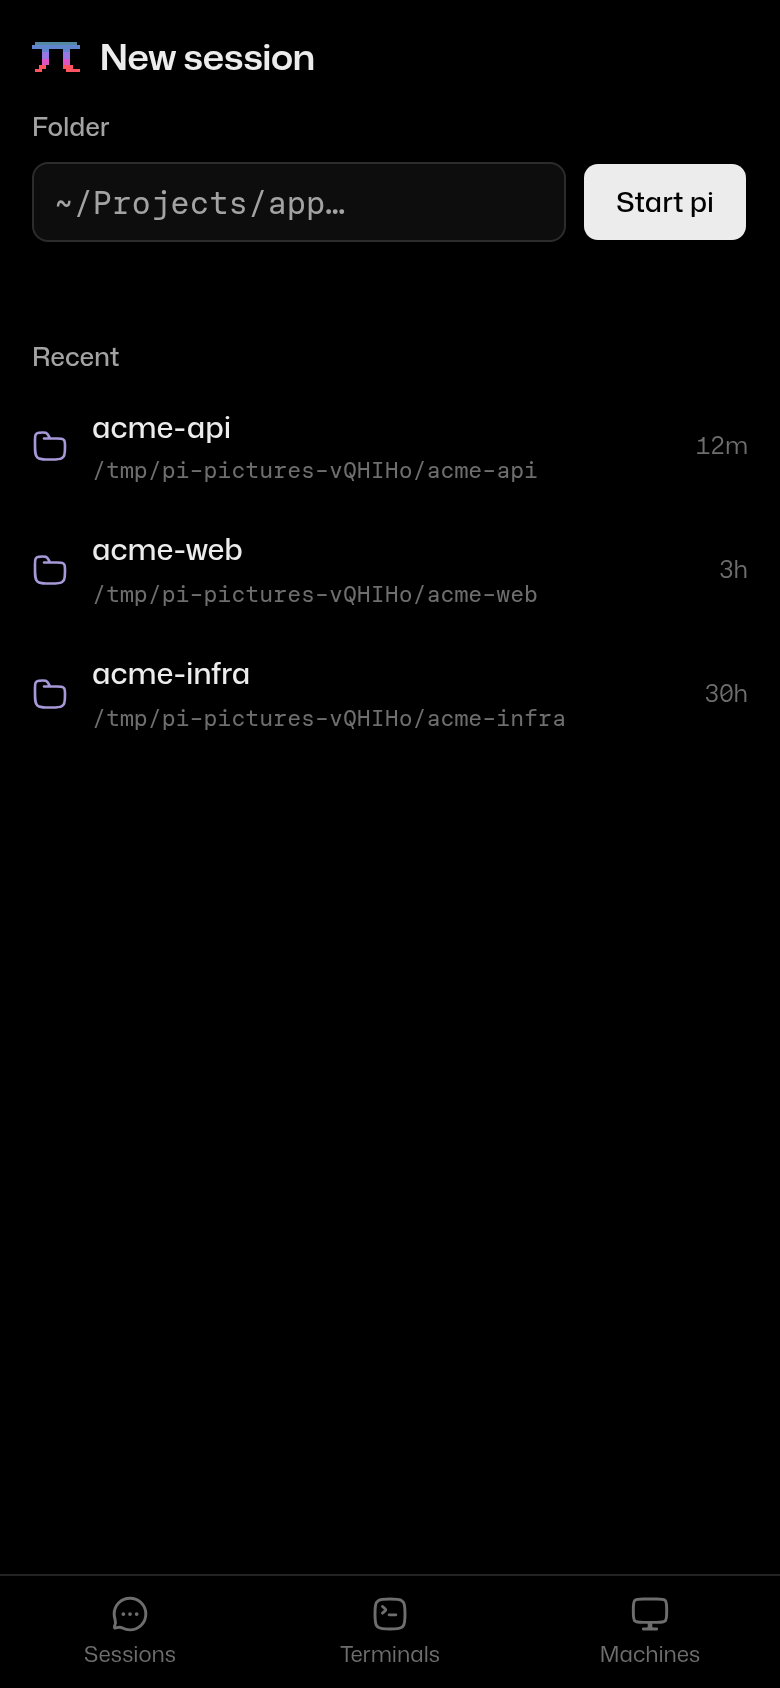
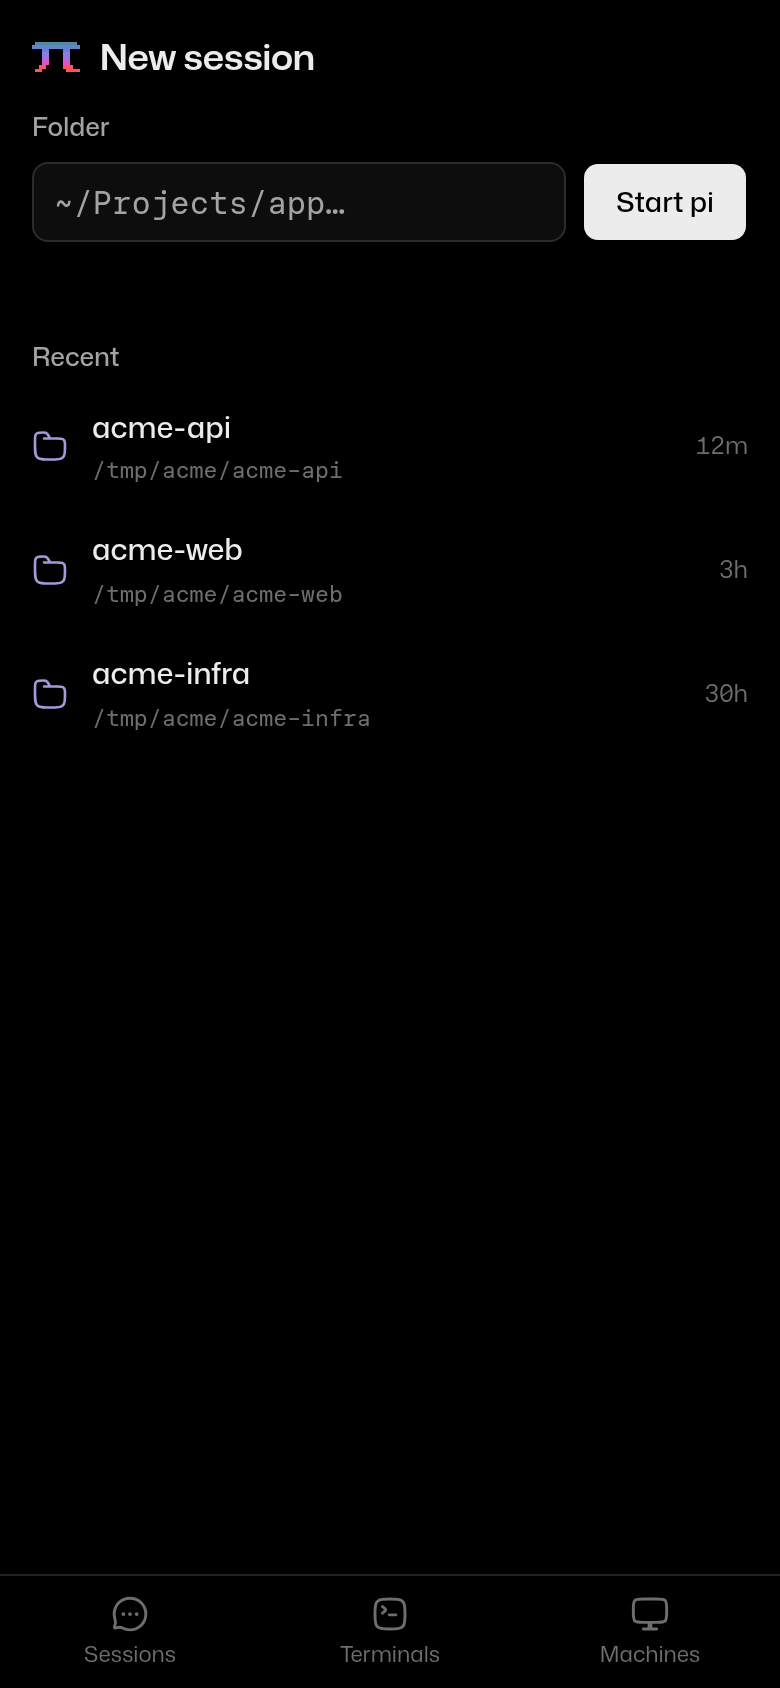
docs(remote): fixed paths in the pictures, and room around the key bar

diff --git a/packages/remote/scripts/pictures.ts b/packages/remote/scripts/pictures.ts
@@ -57,8 +57,10 @@ const ASK_PUSH = "Push it";
  * whose last commit predates the --dry-run change, so the Files screen has a diff to show.
  */
 function project(): string {
-	// A fixed name, since the page shows the folder.
-	const cwd = join(mkdtempSync(join(tmpdir(), "pi-pictures-")), "acme-api");
+	// A fixed place, since the page shows the whole path: a random one would change every picture.
+	const workspace = join(tmpdir(), "acme");
+	rmSync(workspace, { recursive: true, force: true });
+	const cwd = join(workspace, "acme-api");
 	mkdirSync(join(cwd, "scripts"), { recursive: true });
 	writeFileSync(
 		join(cwd, "scripts", "release.ts"),
@@ -240,7 +242,7 @@ async function main(): Promise<void> {
 		}
 		spawnSync("tmux", ["-L", TMUX_SOCKET, "kill-server"], { stdio: "ignore" });
 		rmSync(root, { recursive: true, force: true });
-		rmSync(cwd, { recursive: true, force: true });
+		rmSync(dirname(cwd), { recursive: true, force: true });
 	}
 	await strip(["phone-list", "phone-ask", "phone-session", "phone-question"], "phones.png");
 	await strip(["phone-files", "phone-new", "phone-terminal"], "tools.png");

diff --git a/packages/remote/web/src/app/terminal.tsx b/packages/remote/web/src/app/terminal.tsx
@@ -300,7 +300,7 @@ function KeyBar({
 		<div
 			role="toolbar"
 			aria-label="Keys"
-			className="flex shrink-0 gap-0.5 border-t px-1 pt-1 pb-[max(0.25rem,env(safe-area-inset-bottom))] [@media(pointer:fine)]:hidden"
+			className="flex shrink-0 gap-0.5 border-t pt-1 pr-[max(0.5rem,env(safe-area-inset-right))] pb-[max(0.25rem,env(safe-area-inset-bottom))] pl-[max(0.5rem,env(safe-area-inset-left))] [@media(pointer:fine)]:hidden"
 		>
 			<button
 				type="button"
